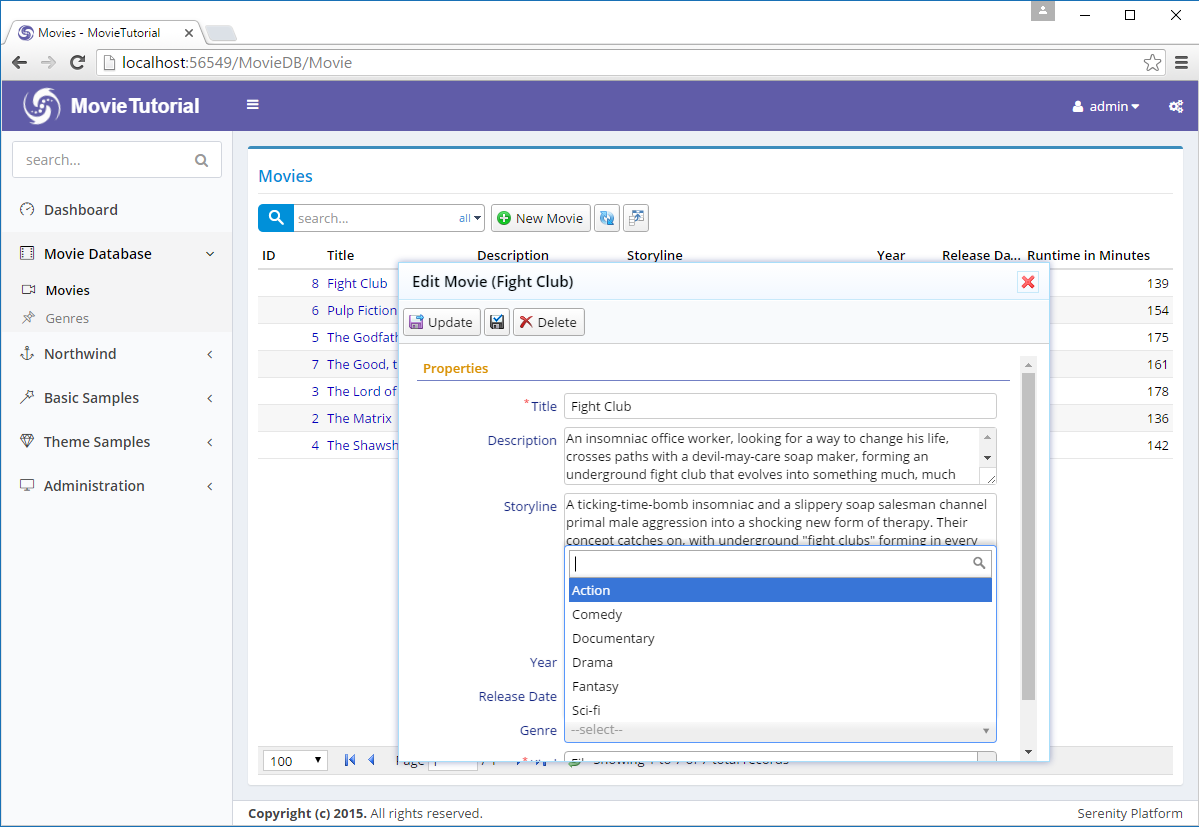
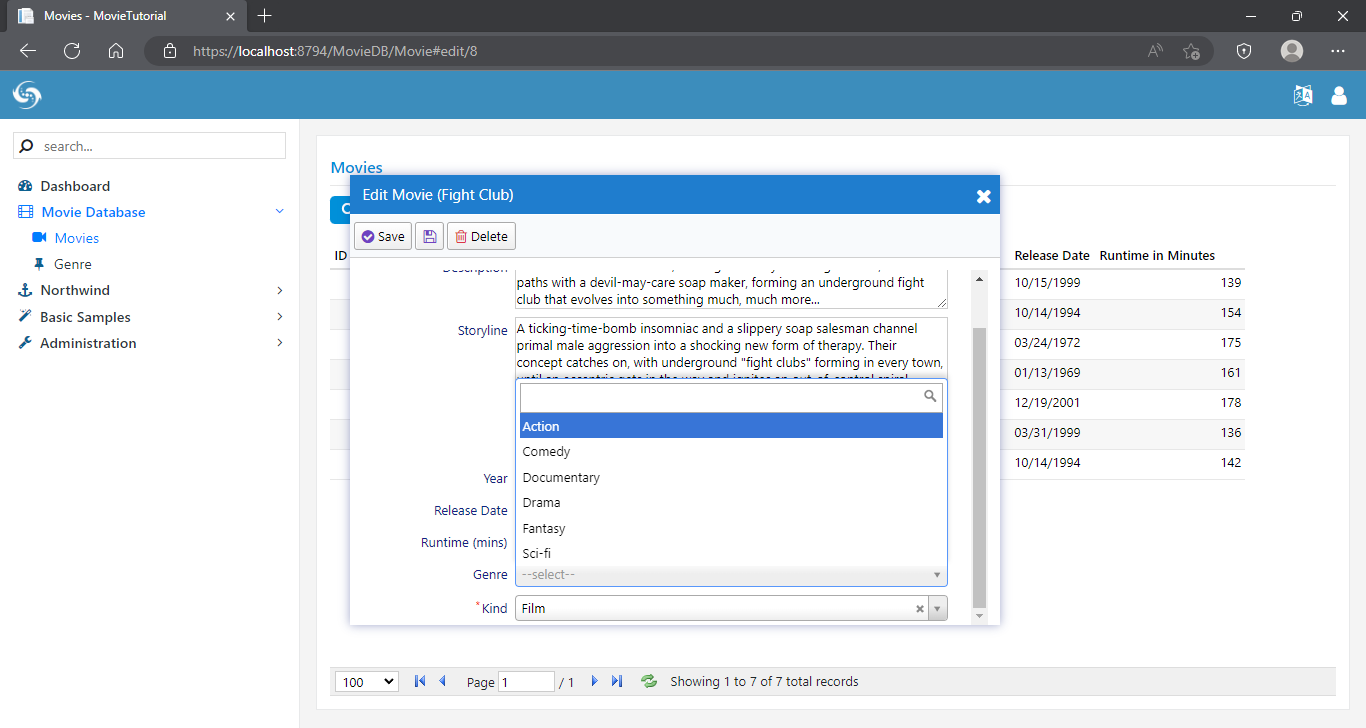
start adding_movie_genres

diff --git a/tutorials/movies/adding_movie_genres.md b/tutorials/movies/adding_movie_genres.md
@@ -8,15 +8,15 @@ To hold Movie genres we need a lookup table. For *Kind* field we used an enumera
 
 As usual, we start with a migration.
 
-*Migrations/DefaultDB/DefaultDB_20160519_154700_GenreTable.cs*:
+*Migrations/DefaultDB/DefaultDB_20221114_183600_GenreTable.cs*:
 
 ```cs
 using FluentMigrator;
 
 namespace MovieTutorial.Migrations.DefaultDB
 {
-    [Migration(20160519_154700)]
-    public class DefaultDB_20160519_154700_GenreTable : Migration
+    [Migration(20221114_183600)]
+    public class DefaultDB_20221114_183600_GenreTable : AutoReversingMigration
     {
         public override void Up()
         {
@@ -29,10 +29,6 @@ namespace MovieTutorial.Migrations.DefaultDB
                 .AddColumn("GenreId").AsInt32().Nullable()
                     .ForeignKey("FK_Movie_GenreId", "mov", "Genre", "GenreId");
         }
-
-        public override void Down()
-        {
-        }
     }
 }
 ```
@@ -44,6 +40,8 @@ We also added a *GenreId* field to *Movie* table.
 
 ### Generating Code For Genre Table
 
+> Don't forget to run project so migration can execute
+
 Run `dotnet sergen g` again in project directory.
 
 Use following parameters:
@@ -53,6 +51,7 @@ Use following parameters:
 - Module Name: **MovieDB**
 - Entity Identifier: **Genre**
 - Permission Key: **Administration:General**
+- What to Generate: **All**
 
 Rebuild solution and run it. We'll get a new page like this:
 
@@ -91,8 +90,8 @@ using FluentMigrator;
 
 namespace MovieTutorial.Migrations.DefaultDB
 {
-    [Migration(20160519_181800)]
-    public class DefaultDB_20160519_181800_SampleGenres : Migration
+    [Migration(20221114_184400)]
+    public class DefaultDB_20221114_184400_SampleGenres : AutoReversingMigration
     {
         public override void Up()
         {
@@ -122,10 +121,6 @@ namespace MovieTutorial.Migrations.DefaultDB
                     Name = "Documentary"
                 });
         }
-
-        public override void Down()
-        {
-        }
     }
 }
 ```
@@ -142,11 +137,11 @@ namespace MovieTutorial.MovieDB
     public sealed class MovieRow : Row<MovieRow.RowFields>, IIdRow, INameRow
     {
         // ...
-        [DisplayName("Kind"), NotNull, DefaultValue(1)]
+        [DisplayName("Kind"), NotNull, DefaultValue(MovieKind.Film)]
         public MovieKind? Kind
         {
-            get => (MovieKind?)fields.Kind[this];
-            set => fields.Kind[this] = (Int32?)value;
+            get => fields.Kind[this];
+            set => fields.Kind[this] = value;
         }
 
         [DisplayName("Genre"), ForeignKey("[mov].Genre", "GenreId"), LeftJoin("g")]
@@ -168,7 +163,7 @@ namespace MovieTutorial.MovieDB
         public class RowFields : RowFieldsBase
         {
             // ...
-            public Int32Field Kind;
+            public EnumField<MovieKind> Kind;
             public Int32Field GenreId;
             public StringField GenreName;
         }
@@ -192,6 +187,19 @@ So when Serenity needs to select from *Movies* table, it will produce an SQL que
 SELECT t0.MovieId, t0.Kind, t0.GenreId, g.Name as GenreName 
 FROM Movies t0
 LEFT JOIN Genre g on t0.GenreId = g.GenreId 
+```
+
+> Serene template enables SQL query logging by default. So you can see all the queries that are executing in output console. Check out appsettings.Development.json
+```json
+{
+    // ...
+    "Logging": {
+        "LogLevel": {
+            "Serenity.Data": "Debug"
+        }
+    }
+    // ...
+}
 ```
 
 > This join will only be performed if a field from Genre table requested to be selected, e.g. its column is visible in a data grid.
@@ -232,7 +240,7 @@ Here we can't do the same. Genre list is a database based dynamic list.
 
 Serenity has notion of *dynamic scripts* to make dynamic data available to script side in the form of runtime generated scripts.
 
-> Dynamic scripts are similar to web services, but their outputs are dynamic javascript files that can be cached on client side. 
+> Dynamic scripts are similar to web services, but their outputs are dynamic JSON's or javascript files that can be cached on client side. 
 > 
 > The *dynamic* here corresponds to the data they contain, not their behavior. Unlike web services, dynamic scripts can't accept any parameters. And their data is shared among all users of your site. They are like singletons or static variables. 
 > 
